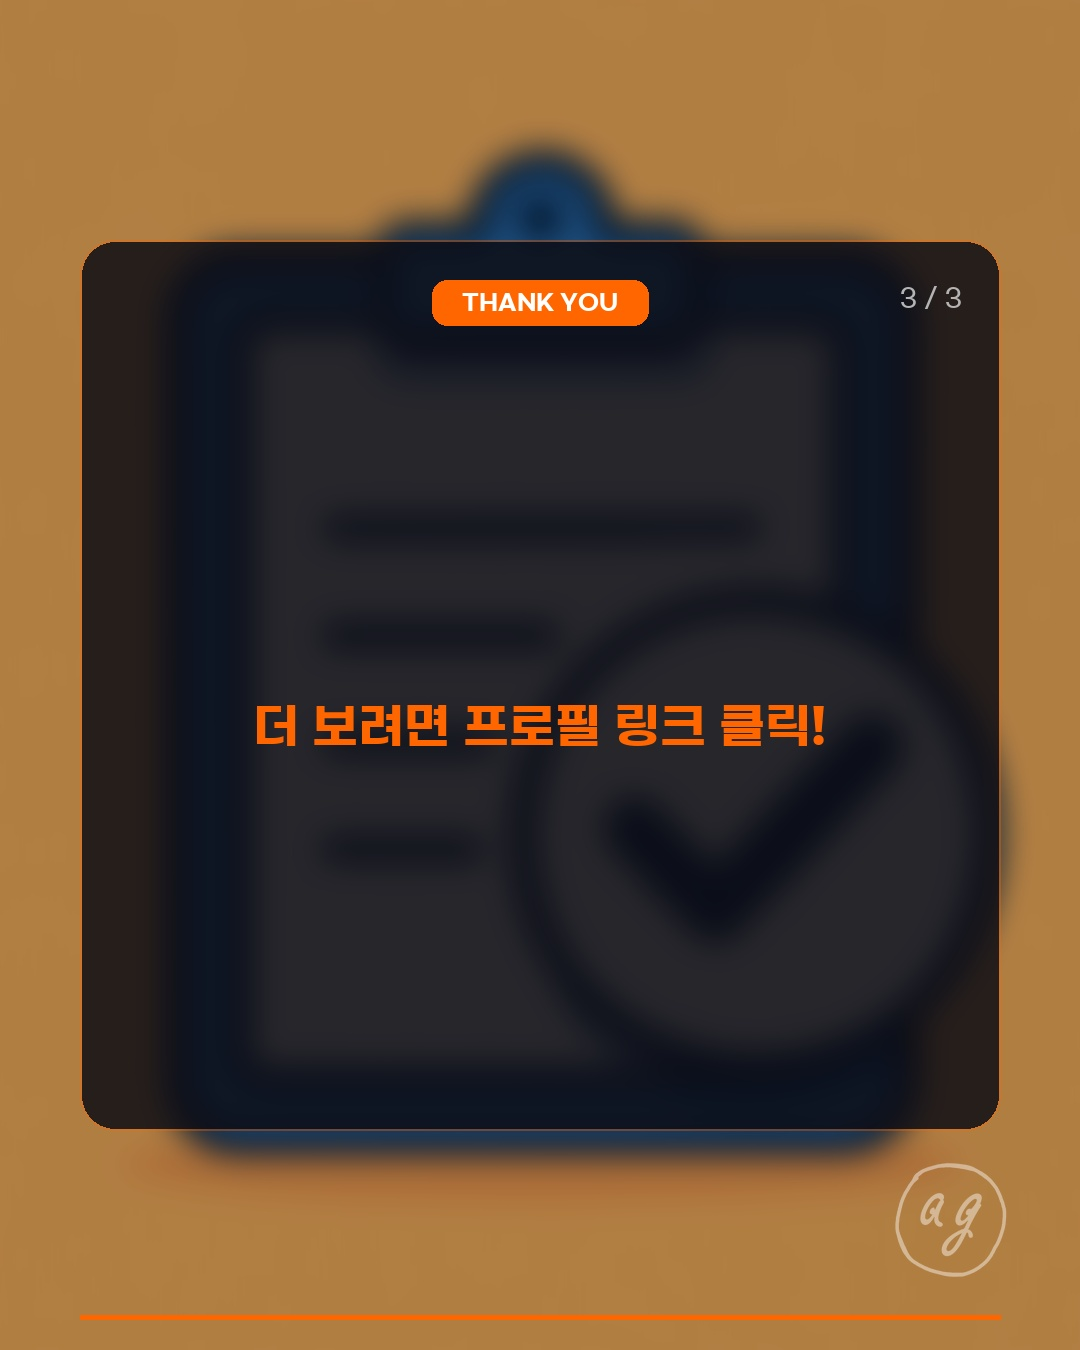
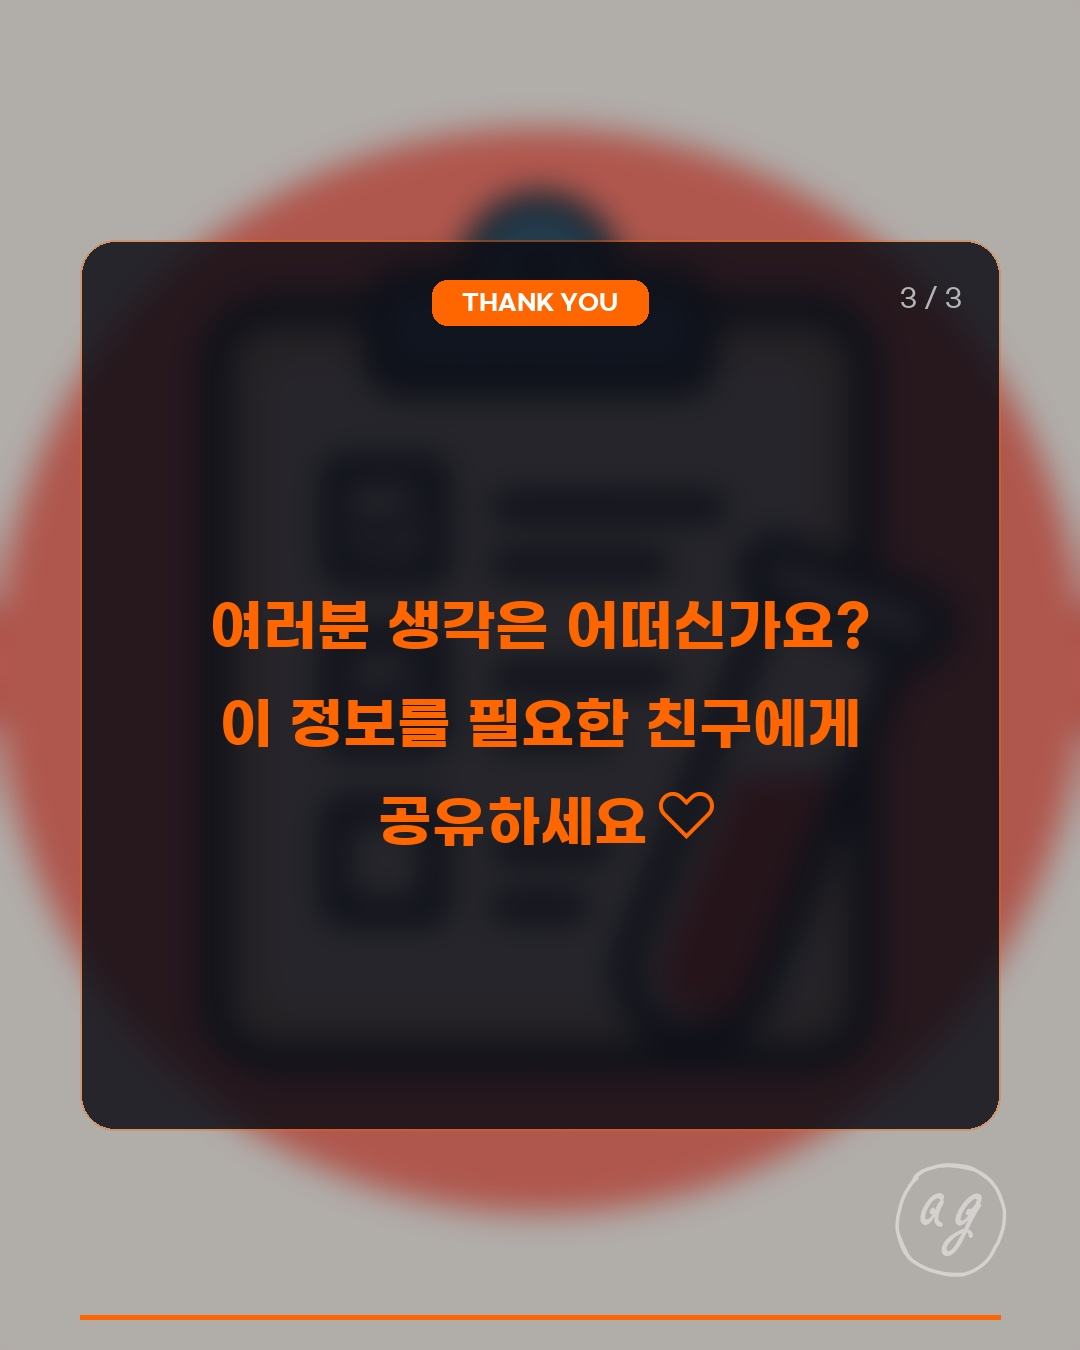
Update last CTA page text requirements to two lines

diff --git a/src/script_vision.py b/src/script_vision.py
@@ -172,6 +172,17 @@ def split_emojis(text: str) -> list:
         
     return segments
 
+def format_korean_line_breaks(text: str) -> str:
+    """
+    Applies custom line break rules for Korean readability.
+    Inserts a newline after specified particles, connectives, commas, exclamation marks, or question marks followed by space.
+    """
+    if not text:
+        return text
+    # Match '와', '과', ',', '를', '을', '하고', '되고', '!', '?' followed by one or more spaces/tabs
+    pattern = r'(와|과|,|를|을|하고|되고|!|\?)([ \t]+)'
+    return re.sub(pattern, r'\1\n', text)
+
 def draw_text_safe(draw, xy, text, fill, font, stroke_width=0, stroke_fill=None, **kwargs):
     """
     Safely draws text. Detects emojis and draws them using system emoji fonts
@@ -595,13 +606,12 @@ def draw_card_layout(slide: dict, total_pages: int, hooking_title: str, bg_image
             text_y = y0 + (y1 - y0 - text_h) // 2 - 2
             draw.text((text_x, text_y), badge_text, fill=(255, 255, 255, 255), font=badge_font)
             
-            content_font = get_system_font(48)
-            content_font_bold = get_system_font(48, bold=True)
+            content_font_bold = get_system_font(56, bold=True)
             main_text = slide.get("main_text", "")
-            lines = wrap_text(main_text, content_font, WIDTH - 260)
+            lines = wrap_text(main_text, content_font_bold, WIDTH - 260)
             
             # Center text vertically inside the card body
-            line_height = 85
+            line_height = 98
             total_text_height = len(lines) * line_height
             card_content_height = (HEIGHT - 220) - 360
             y_cursor = 360 + (card_content_height - total_text_height) // 2
@@ -609,18 +619,15 @@ def draw_card_layout(slide: dict, total_pages: int, hooking_title: str, bg_image
                 y_cursor = 360
                 
             for idx, line in enumerate(lines):
-                is_highlight = (idx == 0 or "마음에 들었다면" in line or "공유해보세요" in line)
-                current_font = content_font_bold if is_highlight else content_font
-                line_color = key_color if is_highlight else (255, 255, 255, 255)
-                
-                if hasattr(current_font, "getbbox"):
-                    bbox = current_font.getbbox(line)
+                if hasattr(content_font_bold, "getbbox"):
+                    bbox = content_font_bold.getbbox(line)
                     w = bbox[2] - bbox[0]
                 else:
-                    w = len(line) * 24
+                    w = len(line) * 28
                 x_pos = (WIDTH - w) // 2
                 
-                draw_text_safe(draw, (x_pos, y_cursor), line, fill=line_color, font=current_font)
+                # Make the text bold and key color
+                draw_text_safe(draw, (x_pos, y_cursor), line, fill=key_color, font=content_font_bold)
                 y_cursor += line_height
 
         else:
@@ -645,13 +652,14 @@ def draw_card_layout(slide: dict, total_pages: int, hooking_title: str, bg_image
             text_y = y0 + (y1 - y0 - text_h) // 2 - 2
             draw.text((text_x, text_y), badge_text, fill=(255, 255, 255, 255), font=badge_font)
             
-            content_font = get_system_font(44)
-            content_font_bold = get_system_font(44, bold=True)
+            content_font = get_system_font(52)
+            content_font_bold = get_system_font(52, bold=True)
             main_text = slide.get("main_text", "")
+            main_text = format_korean_line_breaks(main_text)
             lines = wrap_text(main_text, content_font, WIDTH - 260)
             
             # Center text vertically inside the card body
-            line_height = 75
+            line_height = 88
             total_text_height = len(lines) * line_height
             card_content_height = (HEIGHT - 220) - 360 # 770 px
             y_cursor = 360 + (card_content_height - total_text_height) // 2
@@ -663,7 +671,7 @@ def draw_card_layout(slide: dict, total_pages: int, hooking_title: str, bg_image
                 is_header = False
                 cleaned = line.strip()
                 if re.match(r'^\d+\.', cleaned) or re.match(r'^\d+단계', cleaned) or cleaned.startswith(("첫째", "둘째", "셋째", "넷째", "다섯째", "마지막")):
-                    is_header = True
+                     is_header = True
                 
                 current_font = content_font_bold if is_header else content_font
                 line_color = key_color if is_header else (245, 245, 250, 255)
@@ -672,7 +680,7 @@ def draw_card_layout(slide: dict, total_pages: int, hooking_title: str, bg_image
                     bbox = current_font.getbbox(line)
                     w = bbox[2] - bbox[0]
                 else:
-                    w = len(line) * 22
+                    w = len(line) * 26
                 x_pos = (WIDTH - w) // 2
                 
                 draw_text_safe(draw, (x_pos, y_cursor), line, fill=line_color, font=current_font)
@@ -739,8 +747,8 @@ if __name__ == "__main__":
         "hooking_title": "테스트 카드뉴스",
         "slides": [
             {"page": 1, "type": "cover", "main_text": "인스타 자동화로\n돈 버는 비밀 공개"},
-            {"page": 2, "type": "content", "main_text": "첫째, 트렌드를 분석하고\n둘째, 카피라이팅을 자동화합니다."},
-            {"page": 3, "type": "cta", "main_text": "더 보려면 프로필 링크 클릭!"}
+            {"page": 2, "type": "content", "main_text": "올해 제주 장마는 6월 30일에 시작! 🏳역대 3번째로 늦은 기록입니다."},
+            {"page": 3, "type": "cta", "main_text": "여러분 생각은 어떠신가요?\n이 정보를 필요한 친구에게 공유하세요♡"}
         ]
     }
     generate_carousel_images(test_plan, "./test_output")

diff --git a/src/agent_creative.py b/src/agent_creative.py
@@ -37,7 +37,7 @@ def generate_instagram_plan(article_title: str, article_content: str) -> dict:
             {
                 "page": 4,
                 "type": "cta",
-                "main_text": "이 정보를 보고 생각나는\n사람에게 공유해보세요!\n오늘도 근사한 하루 되세요 ^_^"
+                "main_text": "여러분 생각은 어떠신가요?\n이 정보를 필요한 친구에게 공유하세요♡"
             }
         ],
         "final_caption": "🔥 AI로 인스타그램 자동화 시작하기!\n\n매일 무슨 콘텐츠 올릴지 고민되셨나요?\n이제 AI 에이전트 시스템이 실시간 트렌드를 읽어와 최적화된 카드뉴스와 해시태그까지 자동으로 만들어 드립니다!\n\n시간은 절약하고, 수익은 극대화하는 비결이 궁금하다면?\n지금 바로 프로필 링크를 확인해 보세요! 👇\n\n#인스타그램자동화 #인스타마케팅 #부업추천 #AI마케팅 #콘텐츠제작",
@@ -59,12 +59,12 @@ def generate_instagram_plan(article_title: str, article_content: str) -> dict:
 
 [작성 요구사항]:
 1. 대중의 호기심을 자극하는 강력하고 명확한 대제목(Hooking Title)을 정해줘.
-2. 기사 내용을 아주 꼼꼼하고 깊이 있게 정독하여 독자에게 실질적으로 가치 있는 정보와 요점을 빠짐없이 파악해야 해. 요식 행위 수준의 단순 나열이 아니라, 핵심 구체적 수치, 설명, 팁을 밀도 있게 정리해줘.
-3. 기사 본문의 풍부함과 요점 개수에 맞게 카드뉴스 총 매수를 **최대 10장(권장: 6장 ~ 10장)**까지 충분히 할애하여 중요 정보가 누락되지 않도록 설계해줘. (내용이 넉넉함에도 4~5장 내외의 짧은 요약으로 때우지 말 것)
+2. 기사 내용을 아주 꼼꼼하고 깊이 있게 정독하여 독자에게 실질적으로 가치 있는 정보와 요점을 빠짐없이 파악해야 해. 요식 행위 수준의 단순 나열이 아니라, 핵심 구체적 수치, 설명, 팁을 밀도 있게 정리해줘. 특히, 기사 내에 나열된 핵심 키포인트나 세부 기능/방법의 개수를 명확히 세어보고(예: 기사 제목이나 본문에 6가지 방법이 있다면), 그 개수 그대로 내용 슬라이드를 구성하여 누락되는 부분이 단 하나도 없게 해야 해.
+3. 기사 본문의 풍부함과 요점 개수(N개)에 맞게 카드뉴스 총 매수를 **최대 10장(권장: 6장 ~ 10장)**까지 충분히 할애하여 중요 정보가 누락되지 않도록 설계해줘. 예컨대 6가지 핵심 항목이 있다면 표지/마지막을 제외한 중간 내용('content' 타입) 슬라이드를 정확히 6개 생성해야 해.
 4. 2번째 카드뉴스 내용부터 중간 페이지들('content' 타입)은 핵심 정보를 구조화해서 정리해줘 (예: "1. 핵심기능명 🧠\n상세 정보 내용과 구체적인 예시"). 이때, 각 설명 요점이나 문맥마다 딱 들어맞는 직관적이고 다채로운 이모지(이모지, 예: 🧠, 👁, ✍, 🎨, 🤖, 🚀, 🔥, 💡, 📈, 💬 등)를 슬라이드당 최소 2개에서 4개 이상 풍부하게 섞어 넣어 가독성을 극대화해줘. 절대 이모지 없이 텍스트만 밋밋하게 나열되지 않게 해줘!
 5. 카드뉴스의 첫 페이지는 'cover', 마지막 페이지는 'cta' 타입이어야 하고, 중간 페이지들은 'content' 타입이어야 해.
-6. 마지막 'cta' 페이지의 `main_text`는 다른 문장을 절대 섞지 말고, 반드시 정확히 아래의 3줄로만 고정해서 반환해줘 (매우 중요):
-이 정보를 보고 생각나는\n사람에게 공유해보세요!\n오늘도 근사한 하루 되세요 ^_^
+6. 마지막 'cta' 페이지의 `main_text`는 다른 문장을 절대 섞지 말고, 반드시 정확히 아래의 2줄로만 고정해서 반환해줘 (매우 중요):
+여러분 생각은 어떠신가요?\n이 정보를 필요한 친구에게 공유하세요♡
 7. 동일한 기사 링크로 여러 번 요청될 수 있으니, 매번 텍스트 생성 시 이전 버전과 다른 깊이 있는 분석 각도나 새로운 유용한 디테일을 찾아 독창적이고 심도 있게 작성해줘.
 8. `final_caption`에는 풍부하고 유용한 정보성 본문 텍스트를 작성하고, 마지막에 관련 해시태그는 뉴스 기사의 핵심 키워드를 반영한 대표적인 해시태그 딱 5개만 공백으로 구분해서 한 줄에 적어줘. 절대 5개를 초과하거나 미달하지 않도록 정확히 5개의 해시태그로 작성해줘.
 9. (매우 중요) 두 번째 카드뉴스 슬라이드부터는 문장 곳곳에 이모지를 다채롭게 배치하여, 스마트폰으로 보는 독자들이 한눈에 직관적으로 이해하고 쉽게 읽을 수 있도록 써야 해.
@@ -83,7 +83,7 @@ JSON 스키마:
     {{"page": 4, "type": "content", "main_text": "3. 글쓰기 도구 ✍\\n상세 정보 및 예시 💬"}},
     {{"page": 5, "type": "content", "main_text": "4. 이미지 생성 🎨\\n상세 정보 및 예시 ✨"}},
     {{"page": 6, "type": "content", "main_text": "5. 시리 통합 🤖\\n상세 정보 및 예시 💡"}},
-    {{"page": 7, "type": "cta", "main_text": "이 정보를 보고 생각나는\\n사람에게 공유해보세요!\\n오늘도 근사한 하루 되세요 ^_^"}}
+    {{"page": 7, "type": "cta", "main_text": "여러분 생각은 어떠신가요?\\n이 정보를 필요한 친구에게 공유하세요♡"}}
   ],
   "final_caption": "인스타그램 업로드용 전체 본문 텍스트 및 CTA 구문... \\n\\n#해시태그1 #해시태그2 #해시태그3 #해시태그4 #해시태그5",
   "image_prompt": "A premium detailed English prompt for DALL-E based on the selected keywords"
